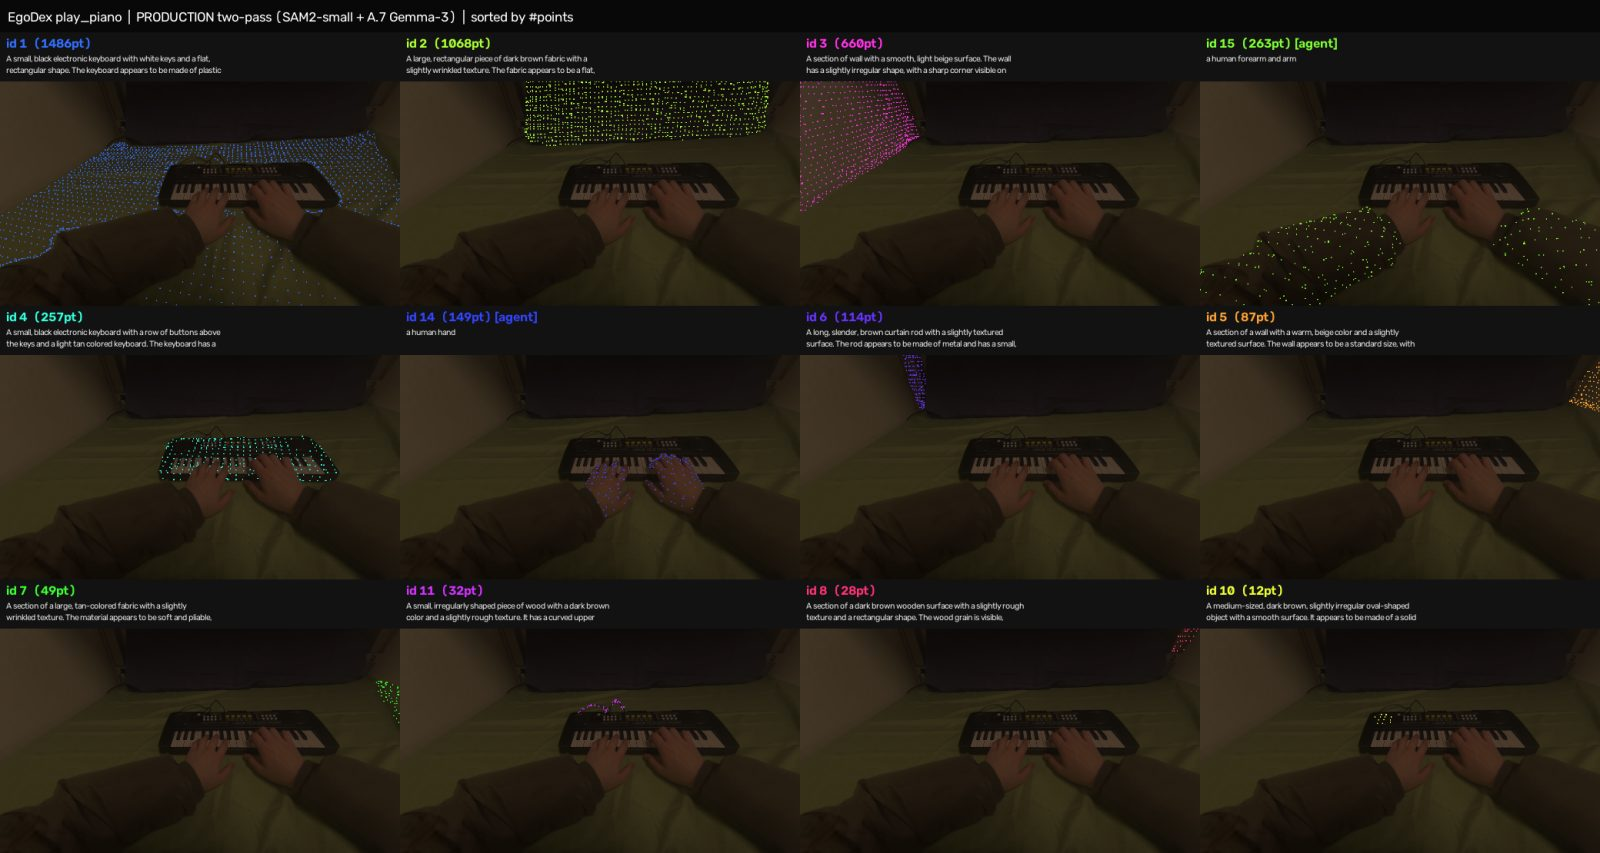
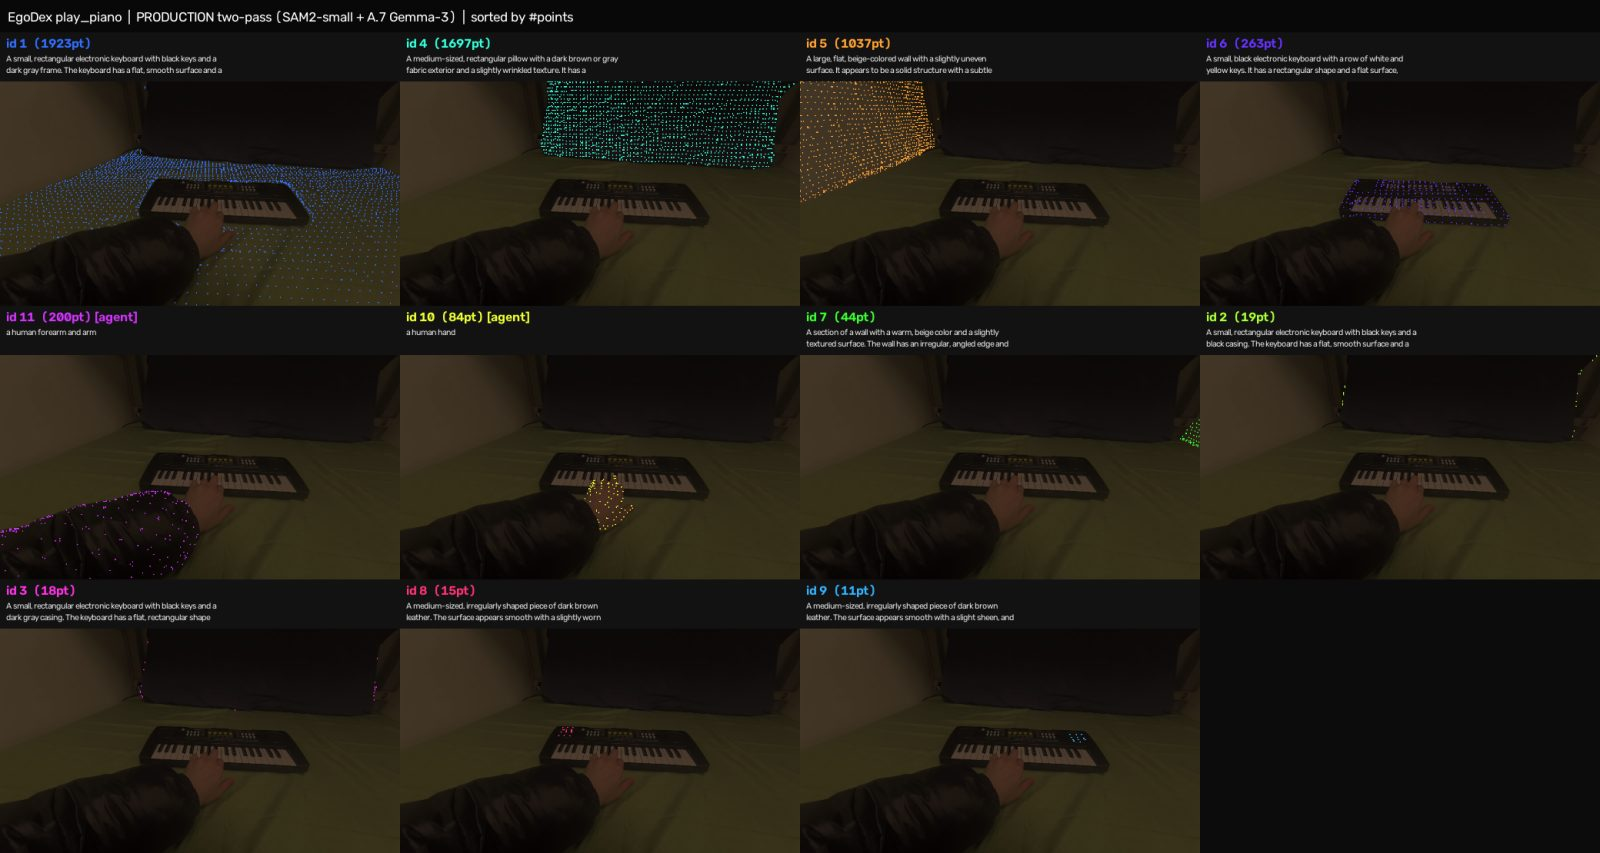
spaceformer-data-engine: all galleries regenerated on the current two-pass pipeline (EgoDex 7 prod, VITRA 5 two-pass, new-dataset demos w/ production masker); SF-faithful demoted to ablation

diff --git a/experiments/dex-pointwam/logs/2026-08-13-spaceformer-data-engine/index.html b/experiments/dex-pointwam/logs/2026-08-13-spaceformer-data-engine/index.html
@@ -65,7 +65,7 @@
         </div>
       </div>
       <figure style="margin-top:22px">
-        <img src="assets/sf_panel_example.jpg" alt="clean_tableware with 5 diverse paragraph captions per instance" loading="lazy">
+        <img src="assets/prod_open_close_insert_remove_tupperware.jpg" alt="production sample" loading="lazy">
         <figcaption>SF-faithful demo (EgoDex clean_tableware) — 5 diverse paragraph captions per instance, A.7 protocol verbatim, Gemma-3-12b. Caption quality matches the paper's own examples.</figcaption>
       </figure>
     </div>
@@ -116,8 +116,29 @@
 
   <section>
     <div class="wrap">
-      <h2><span class="n">04</span>EgoDex — SF-faithful, 10 episodes</h2>
-      <p class="sub">MaskClustering (consensus 0.9) + A.7 Gemma-3 ×5 captions. Tiles sorted by #points.</p>
+      <h2><span class="n">04</span>Production output — the pipeline as it runs today (EgoDex 7 · VITRA 5)</h2>
+      <p class="sub"><b>Version:</b> two-pass hybrid — pass 1 SAM2 hiera_small (pps 24, ppb 256) + scene-flow merge; pass 2 Gemma-3-12b with the SpaceFormer A.7 protocol, one caption per instance, SigLIP2 target. EgoDex tiles are read straight from today's campaign sidecars; VITRA episodes were run through the identical two-pass config. Tiles sorted by #points; read with §03.</p>
+      <h3>EgoDex</h3>
+      <figure><img src="assets/prod_open_close_insert_remove_tupperware.jpg" alt="prod_open_close_insert_remove_tupperware.jpg" loading="lazy"><figcaption>open_close_insert_remove_tupperware — campaign sidecar, two-pass hybrid</figcaption></figure>
+      <figure><img src="assets/prod_paint_clean_brush.jpg" alt="prod_paint_clean_brush.jpg" loading="lazy"><figcaption>paint_clean_brush — campaign sidecar, two-pass hybrid</figcaption></figure>
+      <figure><img src="assets/prod_peel_place_sticker.jpg" alt="prod_peel_place_sticker.jpg" loading="lazy"><figcaption>peel_place_sticker — campaign sidecar, two-pass hybrid</figcaption></figure>
+      <figure><img src="assets/prod_pick_up_and_put_down_case_or_bag.jpg" alt="prod_pick_up_and_put_down_case_or_bag.jpg" loading="lazy"><figcaption>pick_up_and_put_down_case_or_bag — campaign sidecar, two-pass hybrid</figcaption></figure>
+      <figure><img src="assets/prod_play_piano.jpg" alt="prod_play_piano.jpg" loading="lazy"><figcaption>play_piano — campaign sidecar, two-pass hybrid</figcaption></figure>
+      <figure><img src="assets/prod_push_pop_toy.jpg" alt="prod_push_pop_toy.jpg" loading="lazy"><figcaption>push_pop_toy — campaign sidecar, two-pass hybrid</figcaption></figure>
+      <figure><img src="assets/prod_put_in_take_out_glasses.jpg" alt="prod_put_in_take_out_glasses.jpg" loading="lazy"><figcaption>put_in_take_out_glasses — campaign sidecar, two-pass hybrid</figcaption></figure>
+      <h3>VITRA</h3>
+      <figure><img src="assets/prod_vitra_somethingsomethingv2_100000_ep_000000.jpg" alt="prod_vitra_somethingsomethingv2_100000_ep_000000.jpg" loading="lazy"><figcaption>vitra_somethingsomethingv2_100000_ep_000000 — two-pass hybrid (identical config), 240p source, caption budget 15</figcaption></figure>
+      <figure><img src="assets/prod_vitra_somethingsomethingv2_100002_ep_000000.jpg" alt="prod_vitra_somethingsomethingv2_100002_ep_000000.jpg" loading="lazy"><figcaption>vitra_somethingsomethingv2_100002_ep_000000 — two-pass hybrid (identical config), 240p source, caption budget 15</figcaption></figure>
+      <figure><img src="assets/prod_vitra_somethingsomethingv2_100005_ep_000000.jpg" alt="prod_vitra_somethingsomethingv2_100005_ep_000000.jpg" loading="lazy"><figcaption>vitra_somethingsomethingv2_100005_ep_000000 — two-pass hybrid (identical config), 240p source, caption budget 15</figcaption></figure>
+      <figure><img src="assets/prod_vitra_somethingsomethingv2_100019_ep_000000.jpg" alt="prod_vitra_somethingsomethingv2_100019_ep_000000.jpg" loading="lazy"><figcaption>vitra_somethingsomethingv2_100019_ep_000000 — two-pass hybrid (identical config), 240p source, caption budget 15</figcaption></figure>
+      <figure><img src="assets/prod_vitra_somethingsomethingv2_100020_ep_000000.jpg" alt="prod_vitra_somethingsomethingv2_100020_ep_000000.jpg" loading="lazy"><figcaption>vitra_somethingsomethingv2_100020_ep_000000 — two-pass hybrid (identical config), 240p source, caption budget 15</figcaption></figure>
+    </div>
+  </section>
+
+  <section>
+    <div class="wrap">
+      <h2><span class="n">04b</span>Ablation — SpaceFormer-faithful variant (NOT the production pipeline), 10 episodes</h2>
+      <p class="sub">Kept as the parity-audit reference: original MaskClustering (consensus 0.9, static-world) + A.7 Gemma-3 ×5 captions, hiera_large masker. This is what SpaceFormer&#39;s own pipeline does on ego video — it is <b>not</b> what we ship (coverage 57.9% vs 94.3%, §01).</p>
       <figure><img src="assets/egodex_clean_tableware.jpg" alt="clean_tableware per-instance grid" loading="lazy"><figcaption>clean_tableware — table surfaces dominate; fork/knife/bottle at 14–26 pt.</figcaption></figure>
       <figure><img src="assets/egodex_charge_uncharge_device.jpg" alt="charge_uncharge_device per-instance grid" loading="lazy"><figcaption>charge_uncharge_device</figcaption></figure>
       <figure><img src="assets/egodex_assemble_jenga.jpg" alt="assemble_jenga per-instance grid" loading="lazy"><figcaption>assemble_jenga</figcaption></figure>
@@ -131,41 +152,30 @@
     </div>
   </section>
 
-  <section>
-    <div class="wrap">
-      <h2><span class="n">05</span>VITRA — SF-protocol captions, 5 episodes</h2>
-      <p class="sub">Our flow-merge + A.7 Gemma-3 captions on 240p something-something v2. Tiles sorted by #points.</p>
-      <figure><img src="assets/vitra_somethingsomethingv2_100002_ep_000000.jpg" alt="VITRA bowl episode grid" loading="lazy"><figcaption>100002 — id2 nails the ceramic bowl; id1 (background table) shows context bleed ("bowl" caption on table points).</figcaption></figure>
-      <figure><img src="assets/vitra_somethingsomethingv2_100000_ep_000000.jpg" alt="VITRA scissors episode grid" loading="lazy"><figcaption>100000 — scissors / arm / tiles / cushion all as paragraph captions.</figcaption></figure>
-      <figure><img src="assets/vitra_somethingsomethingv2_100005_ep_000000.jpg" alt="VITRA episode grid" loading="lazy"><figcaption>100005</figcaption></figure>
-      <figure><img src="assets/vitra_somethingsomethingv2_100019_ep_000000.jpg" alt="VITRA episode grid" loading="lazy"><figcaption>100019</figcaption></figure>
-      <figure><img src="assets/vitra_somethingsomethingv2_100020_ep_000000.jpg" alt="VITRA episode grid" loading="lazy"><figcaption>100020</figcaption></figure>
-    </div>
-  </section>
 
 
   <section>
     <div class="wrap">
-      <h2><span class="n">05b</span>New-dataset vetting — DexYCB · AriaEverydayActivities · EPIC-KITCHENS (5 scenes each)</h2>
-      <p class="sub">Same reviewer checklist as §03. DexYCB = real RGB-D (per-point ids, sorted by #points). AEA (found on the shared root <code>/virtual_lab/dataset/</code>, Aria + MPS 3D available) and EPIC = RGB-only mask demos (encoder-tier vetting, sorted by area). HOT3D/HOI4D remain gated on browser downloads; Ego-Exo4D is not on the server — AEA is the license-free Aria stand-in.</p>
+      <h2><span class="n">05</span>New-dataset vetting — DexYCB · AriaEverydayActivities · EPIC-KITCHENS (5 scenes each)</h2>
+      <p class="sub"><b>Version:</b> production masker + captioner (SAM2 hiera_small pps 24 · A.7 Gemma-3), single frame per scene (these datasets have no flow H5 yet, so no cross-clip merge). Same reviewer checklist as §03. DexYCB = real RGB-D (per-point ids, sorted by #points). AEA (found on the shared root <code>/virtual_lab/dataset/</code>, Aria + MPS 3D available) and EPIC = RGB-only mask demos (encoder-tier vetting, sorted by area). HOT3D/HOI4D remain gated on browser downloads; Ego-Exo4D is not on the server — AEA is the license-free Aria stand-in.</p>
       <h3>DexYCB (RGB-D, gold hand+object)</h3>
-      <figure><img src="assets/newds_dexycb_data_000000.jpg" alt="newds_dexycb_data_000000.jpg" loading="lazy"><figcaption>dexycb_data_000000 — SAM2 + SF(A.7) Gemma-3, unprojected points, sorted by #points</figcaption></figure>
-      <figure><img src="assets/newds_dexycb_data_000001.jpg" alt="newds_dexycb_data_000001.jpg" loading="lazy"><figcaption>dexycb_data_000001 — SAM2 + SF(A.7) Gemma-3, unprojected points, sorted by #points</figcaption></figure>
-      <figure><img src="assets/newds_dexycb_data_000002.jpg" alt="newds_dexycb_data_000002.jpg" loading="lazy"><figcaption>dexycb_data_000002 — SAM2 + SF(A.7) Gemma-3, unprojected points, sorted by #points</figcaption></figure>
-      <figure><img src="assets/newds_dexycb_data_000003.jpg" alt="newds_dexycb_data_000003.jpg" loading="lazy"><figcaption>dexycb_data_000003 — SAM2 + SF(A.7) Gemma-3, unprojected points, sorted by #points</figcaption></figure>
-      <figure><img src="assets/newds_dexycb_data_000004.jpg" alt="newds_dexycb_data_000004.jpg" loading="lazy"><figcaption>dexycb_data_000004 — SAM2 + SF(A.7) Gemma-3, unprojected points, sorted by #points</figcaption></figure>
+      <figure><img src="assets/newds2_dexycb_data_000000.jpg" alt="newds2_dexycb_data_000000.jpg" loading="lazy"><figcaption>dexycb_data_000000 — production masker/captioner, unprojected RGB-D points</figcaption></figure>
+      <figure><img src="assets/newds2_dexycb_data_000001.jpg" alt="newds2_dexycb_data_000001.jpg" loading="lazy"><figcaption>dexycb_data_000001 — production masker/captioner, unprojected RGB-D points</figcaption></figure>
+      <figure><img src="assets/newds2_dexycb_data_000002.jpg" alt="newds2_dexycb_data_000002.jpg" loading="lazy"><figcaption>dexycb_data_000002 — production masker/captioner, unprojected RGB-D points</figcaption></figure>
+      <figure><img src="assets/newds2_dexycb_data_000003.jpg" alt="newds2_dexycb_data_000003.jpg" loading="lazy"><figcaption>dexycb_data_000003 — production masker/captioner, unprojected RGB-D points</figcaption></figure>
+      <figure><img src="assets/newds2_dexycb_data_000004.jpg" alt="newds2_dexycb_data_000004.jpg" loading="lazy"><figcaption>dexycb_data_000004 — production masker/captioner, unprojected RGB-D points</figcaption></figure>
       <h3>AriaEverydayActivities (Aria preview RGB; MPS point clouds/poses/gaze on disk)</h3>
-      <figure><img src="assets/newds_aea_loc1_script1_seq1_rec1.jpg" alt="newds_aea_loc1_script1_seq1_rec1.jpg" loading="lazy"><figcaption>aea_loc1_script1_seq1_rec1 — SAM2 masks + SF(A.7) Gemma-3, sorted by area</figcaption></figure>
-      <figure><img src="assets/newds_aea_loc1_script4_seq2_rec1.jpg" alt="newds_aea_loc1_script4_seq2_rec1.jpg" loading="lazy"><figcaption>aea_loc1_script4_seq2_rec1 — SAM2 masks + SF(A.7) Gemma-3, sorted by area</figcaption></figure>
-      <figure><img src="assets/newds_aea_loc2_script2_seq3_rec1.jpg" alt="newds_aea_loc2_script2_seq3_rec1.jpg" loading="lazy"><figcaption>aea_loc2_script2_seq3_rec1 — SAM2 masks + SF(A.7) Gemma-3, sorted by area</figcaption></figure>
-      <figure><img src="assets/newds_aea_loc2_script4_seq2_rec1.jpg" alt="newds_aea_loc2_script4_seq2_rec1.jpg" loading="lazy"><figcaption>aea_loc2_script4_seq2_rec1 — SAM2 masks + SF(A.7) Gemma-3, sorted by area</figcaption></figure>
-      <figure><img src="assets/newds_aea_loc3_script2_seq1_rec2.jpg" alt="newds_aea_loc3_script2_seq1_rec2.jpg" loading="lazy"><figcaption>aea_loc3_script2_seq1_rec2 — SAM2 masks + SF(A.7) Gemma-3, sorted by area</figcaption></figure>
+      <figure><img src="assets/newds2_aea_loc1_script1_seq1_rec1.jpg" alt="newds2_aea_loc1_script1_seq1_rec1.jpg" loading="lazy"><figcaption>aea_loc1_script1_seq1_rec1 — production masker/captioner, RGB-only</figcaption></figure>
+      <figure><img src="assets/newds2_aea_loc1_script4_seq2_rec1.jpg" alt="newds2_aea_loc1_script4_seq2_rec1.jpg" loading="lazy"><figcaption>aea_loc1_script4_seq2_rec1 — production masker/captioner, RGB-only</figcaption></figure>
+      <figure><img src="assets/newds2_aea_loc2_script2_seq3_rec1.jpg" alt="newds2_aea_loc2_script2_seq3_rec1.jpg" loading="lazy"><figcaption>aea_loc2_script2_seq3_rec1 — production masker/captioner, RGB-only</figcaption></figure>
+      <figure><img src="assets/newds2_aea_loc2_script4_seq2_rec1.jpg" alt="newds2_aea_loc2_script4_seq2_rec1.jpg" loading="lazy"><figcaption>aea_loc2_script4_seq2_rec1 — production masker/captioner, RGB-only</figcaption></figure>
+      <figure><img src="assets/newds2_aea_loc3_script2_seq1_rec2.jpg" alt="newds2_aea_loc3_script2_seq1_rec2.jpg" loading="lazy"><figcaption>aea_loc3_script2_seq1_rec2 — production masker/captioner, RGB-only</figcaption></figure>
       <h3>EPIC-KITCHENS (RGB-only)</h3>
-      <figure><img src="assets/newds_epic_P01_01_30.jpg" alt="newds_epic_P01_01_30.jpg" loading="lazy"><figcaption>epic_P01_01_30 — SAM2 masks + SF(A.7) Gemma-3, sorted by area</figcaption></figure>
-      <figure><img src="assets/newds_epic_P01_01_60.jpg" alt="newds_epic_P01_01_60.jpg" loading="lazy"><figcaption>epic_P01_01_60 — SAM2 masks + SF(A.7) Gemma-3, sorted by area</figcaption></figure>
-      <figure><img src="assets/newds_epic_P15_12_30.jpg" alt="newds_epic_P15_12_30.jpg" loading="lazy"><figcaption>epic_P15_12_30 — SAM2 masks + SF(A.7) Gemma-3, sorted by area</figcaption></figure>
-      <figure><img src="assets/newds_epic_P15_12_60.jpg" alt="newds_epic_P15_12_60.jpg" loading="lazy"><figcaption>epic_P15_12_60 — SAM2 masks + SF(A.7) Gemma-3, sorted by area</figcaption></figure>
-      <figure><img src="assets/newds_epic_P22_05_30.jpg" alt="newds_epic_P22_05_30.jpg" loading="lazy"><figcaption>epic_P22_05_30 — SAM2 masks + SF(A.7) Gemma-3, sorted by area</figcaption></figure>
+      <figure><img src="assets/newds2_epic_P01_01_30.jpg" alt="newds2_epic_P01_01_30.jpg" loading="lazy"><figcaption>epic_P01_01_30 — production masker/captioner, RGB-only</figcaption></figure>
+      <figure><img src="assets/newds2_epic_P01_01_60.jpg" alt="newds2_epic_P01_01_60.jpg" loading="lazy"><figcaption>epic_P01_01_60 — production masker/captioner, RGB-only</figcaption></figure>
+      <figure><img src="assets/newds2_epic_P15_12_30.jpg" alt="newds2_epic_P15_12_30.jpg" loading="lazy"><figcaption>epic_P15_12_30 — production masker/captioner, RGB-only</figcaption></figure>
+      <figure><img src="assets/newds2_epic_P15_12_60.jpg" alt="newds2_epic_P15_12_60.jpg" loading="lazy"><figcaption>epic_P15_12_60 — production masker/captioner, RGB-only</figcaption></figure>
+      <figure><img src="assets/newds2_epic_P22_05_30.jpg" alt="newds2_epic_P22_05_30.jpg" loading="lazy"><figcaption>epic_P22_05_30 — production masker/captioner, RGB-only</figcaption></figure>
     </div>
   </section>
 
@@ -278,7 +288,7 @@
 
 </main>
 
-<footer class="page-end"><div class="wrap"><p class="muted">dex-pointwam · spaceformer data engine · updated 2026-08-25</p></div></footer>
+<footer class="page-end"><div class="wrap"><p class="muted">dex-pointwam · spaceformer data engine · updated 2026-08-25 (galleries regenerated on the current pipeline)</p></div></footer>
 
 </body>
 </html>
